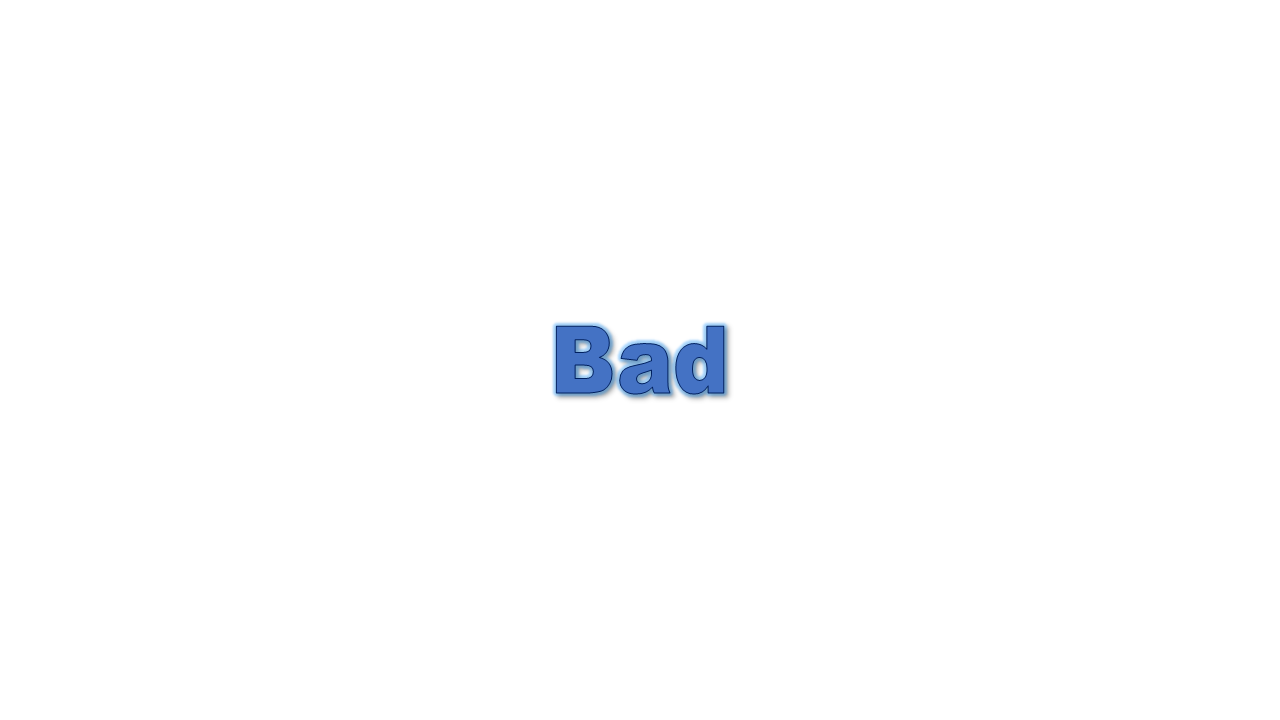
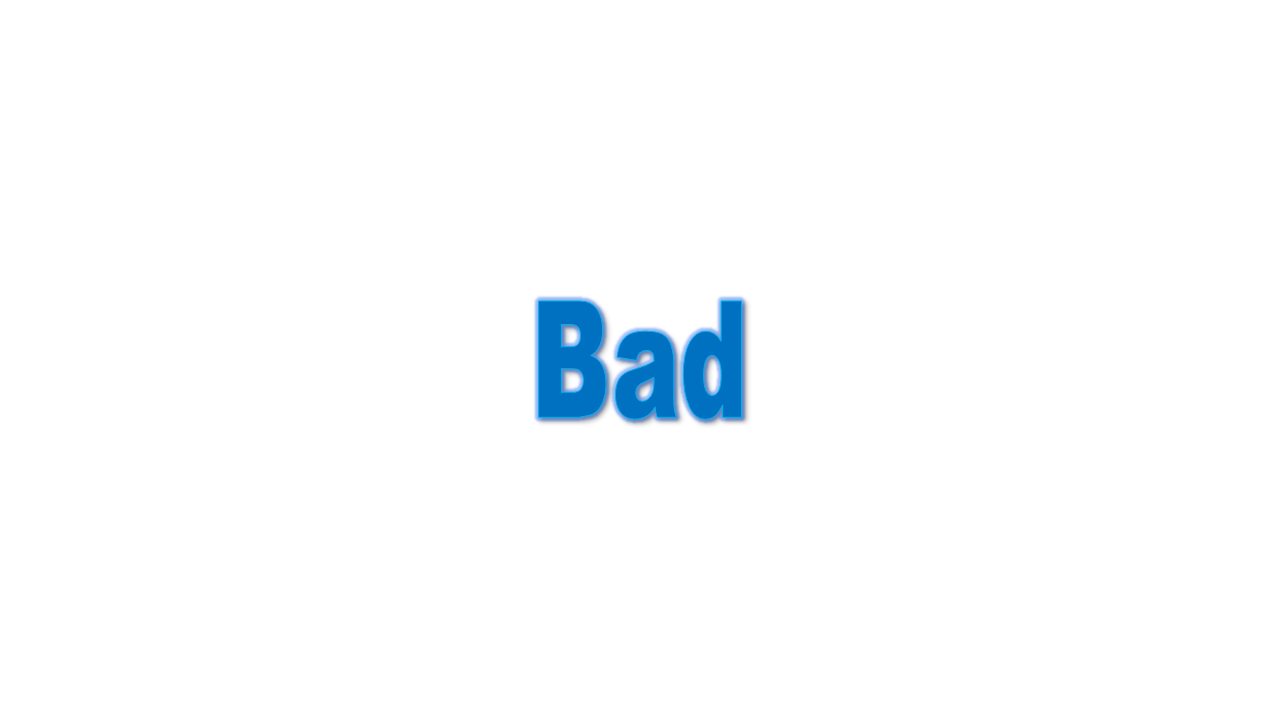
タイミングエフェクトの画像追加

Changed region(s): [[0.4062, 0.3972, 0.5938, 0.6111]]

diff --git a/GameJam2025/GameJam/Object/Score.cpp b/GameJam2025/GameJam/Object/Score.cpp
@@ -17,27 +17,48 @@ void Score::Initialize()
 	red_line_location = 100;
 	event_line_location = 200;
 	total_score = 0;
+	time_count = 0;
+
+	just_perfect = LoadGraph("Resource\\Image\\InGame\\timeing\\Perfect.PNG");
+	just_good = LoadGraph("Resource\\Image\\InGame\\timeing\\Good.PNG");
+	just_bad = LoadGraph("Resource\\Image\\InGame\\timeing\\Bad.PNG");
+
+	check_just = false;
+
 }
 
 void Score::Update()
 {
 	//diff = std::abs(red_y - event_y);
+	if (check_just == true)
+	{
+		time_count++;
+
+		if (time_count > 30)
+		{
+			time_count = 0;
+			check_just = false;
+		}
+	}
 	Evaluate();
 }
 
 void Score::Draw() const
 {
-	if (diff <= 10)
+	if (check_just == true)
 	{
-		DrawFormatString(200, 10, GetColor(0, 0, 0), "Perfect", TRUE);
-	}
-	else if (diff <= 20)
-	{
-		DrawFormatString(200, 10, GetColor(0, 0, 0), "Good", TRUE);
-	}
-	else
-	{
-		DrawFormatString(200, 10, GetColor(0, 0, 0), "Bad", TRUE);
+		if (diff <= 10)
+		{
+			DrawGraph(0, 0, just_perfect, TRUE);
+		}
+		else if (diff <= 20)
+		{
+			DrawGraph(0, 0, just_good, TRUE);
+		}
+		else
+		{
+			DrawGraph(0, 0, just_bad, TRUE);
+		}
 	}
 }
 
@@ -49,6 +70,7 @@ void Score::Finalize()
 void Score::AddScore(int red_y, int event_y)
 {
 	diff = std::abs(red_y - event_y);
+	check_just = true;
 	Evaluate();
 }
 

diff --git a/GameJam2025/GameJam/Object/Score.h b/GameJam2025/GameJam/Object/Score.h
@@ -26,6 +26,13 @@ private:
 	int red_line_location;
 	int event_line_location;
 
+	int just_perfect;		//パーフェクトのタイミング
+	int just_good;			//グッドのタイミング
+	int just_bad;			//バッドのタイミング
+
+	bool check_just;		//評価されているか
+	int time_count;
+
 	int diff;
 
 public:

diff --git a/GameJam2025/GameJam/Scene/InGame/InGameScene.cpp b/GameJam2025/GameJam/Scene/InGame/InGameScene.cpp
@@ -77,6 +77,7 @@ eSceneType InGameScene::Update()
         event_line->Update();
         n_and_p_black->Update();
         n_and_p_gray->Update();
+        score->Update();
         //score->Update();
         back_column->AnimUpdate(true);
 
